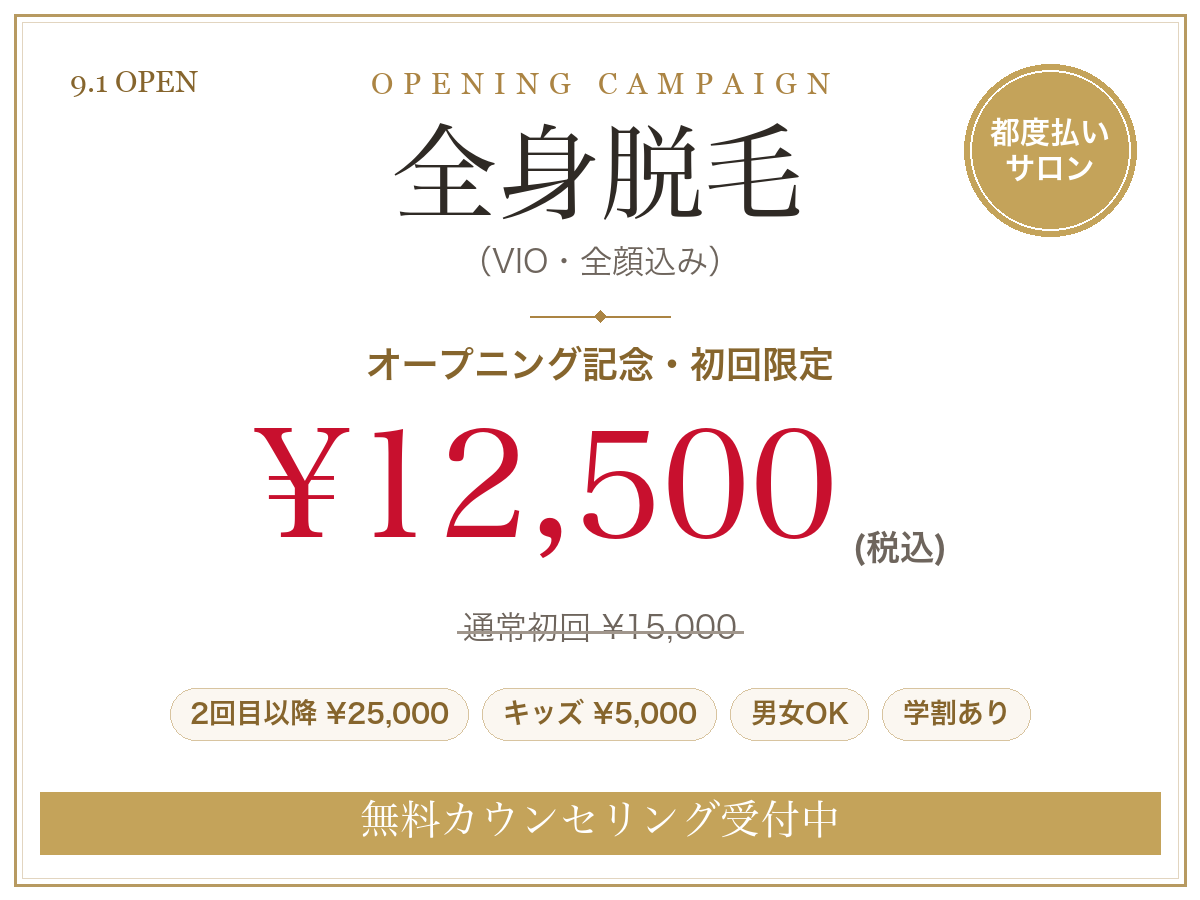
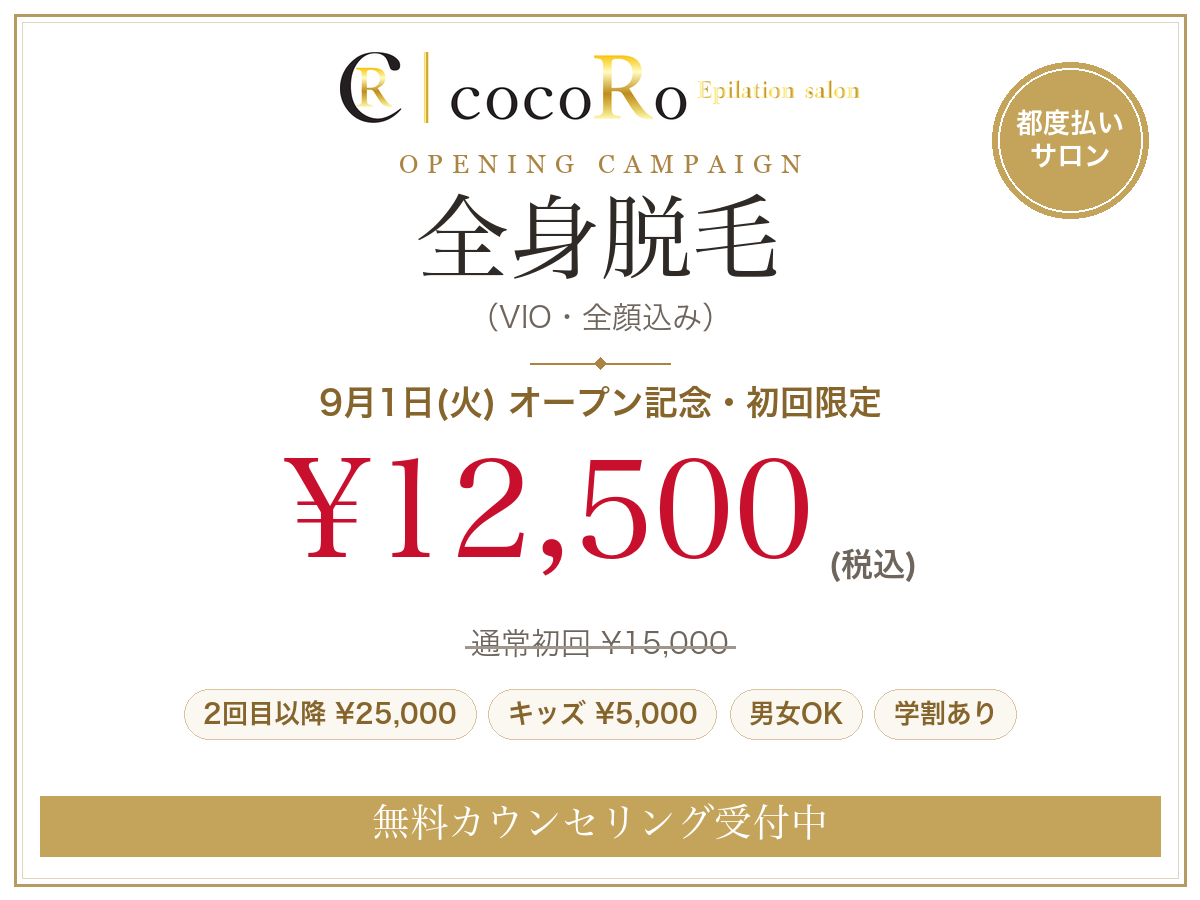
キャンペーン画像にロゴを追加しバランス調整
- 看板PDFからcocoRoロゴ(CR｜cocoRo Epilation salon)を高解像度で切り出して上部中央に配置
- 日付表記を「9.1 OPEN」から「9月1日(火) オープン記念・初回限定」に変更
- 全体の文字配置・サイズを再調整

diff --git a/index.html b/index.html
@@ -298,7 +298,7 @@
           <li>キッズ脱毛</li>
         </ul>
         <figure class="campaign-visual fade-up">
-          <img src="campaign-opening.png" alt="9月1日オープニングキャンペーン 全身脱毛（VIO・全顔込み）初回限定12,500円（税込）通常初回15,000円 2回目以降25,000円 キッズ5,000円 都度払いサロン" loading="lazy" width="1200" height="900" />
+          <img src="campaign-opening.png" alt="9月1日(火)オープン記念 全身脱毛（VIO・全顔込み）初回限定12,500円（税込）通常初回15,000円 2回目以降25,000円 キッズ5,000円 都度払いサロン" loading="lazy" width="1200" height="900" />
         </figure>
         <div class="menu-grid">
           <figure class="menu-card menu-card-image fade-up">
